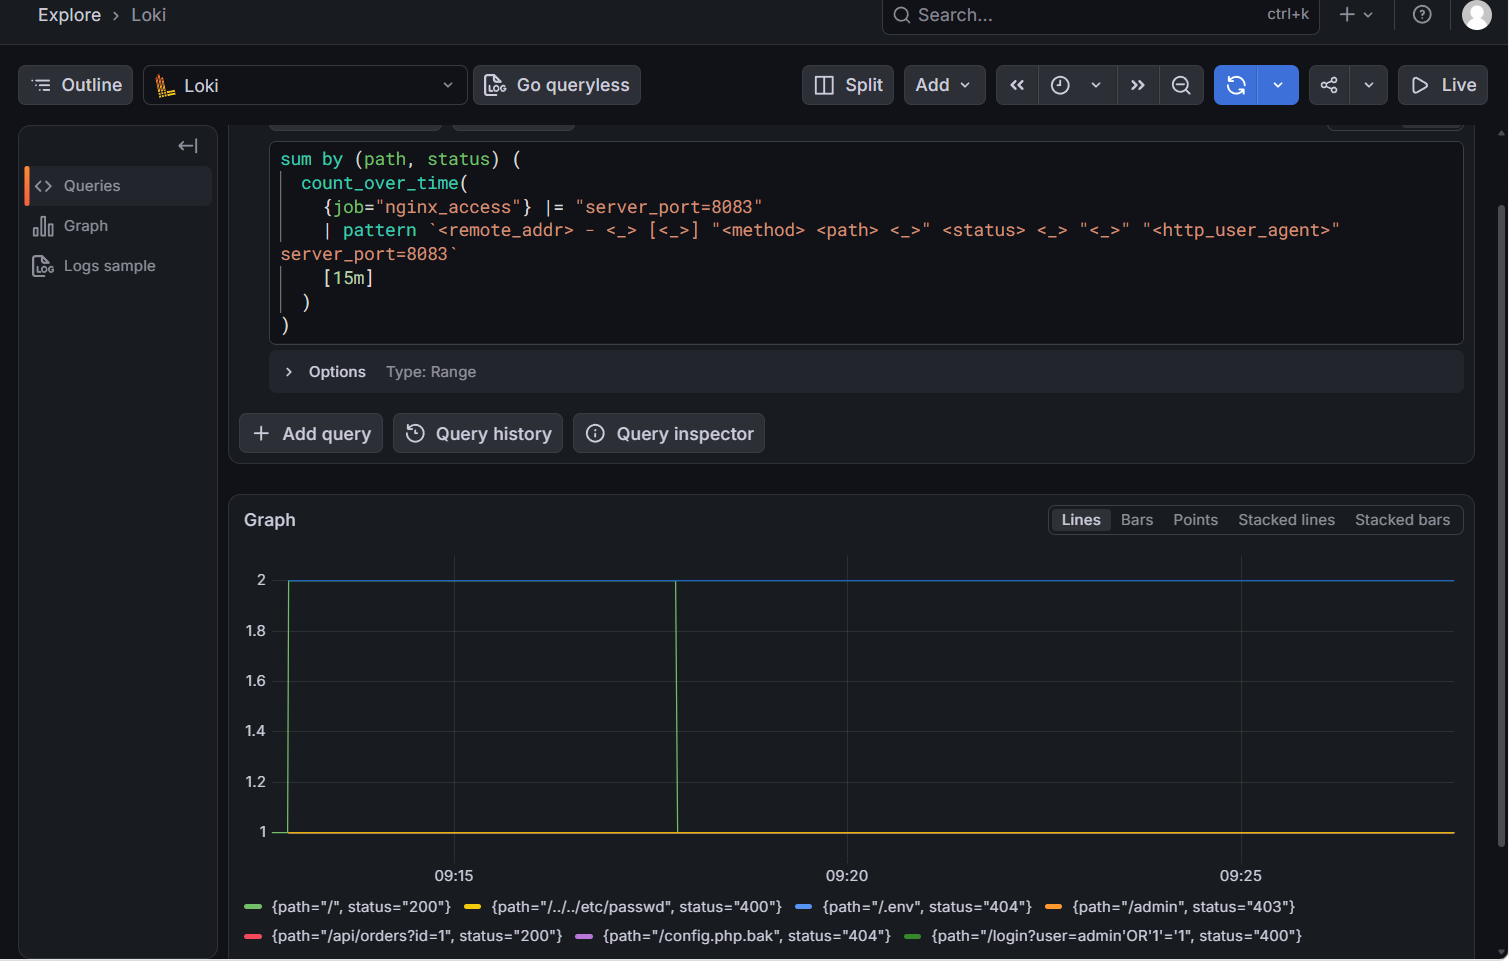
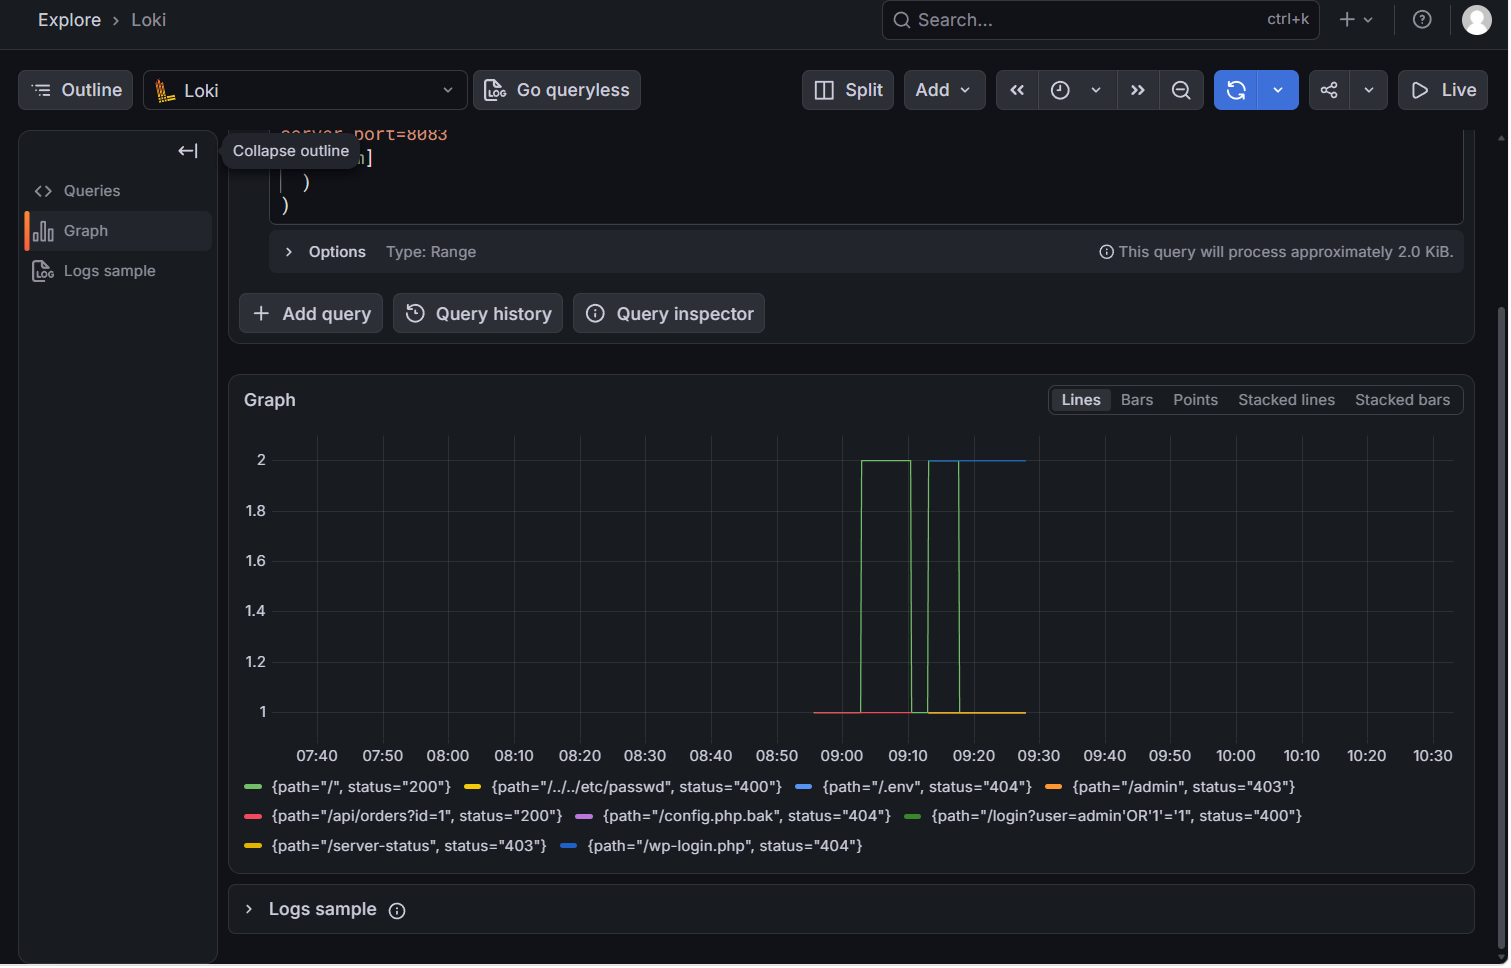
[2024010018田振伟]Lab8作业提交

diff --git a/2024010018田振伟/Lab8/Lab8.md b/2024010018田振伟/Lab8/Lab8.md
@@ -276,7 +276,7 @@ systemctl status alloy --no-pager
 >
 > 1. 8083 站点是否验证通过？`/`、`/admin`、`/.env` 的返回状态码分别是什么？
 >
->    答：8083 站点验证通过；`/` 返回状态码 `200`，`/admin` 返回状态码 `403`，`/.env` 返回状态码 `403`
+>    答：8083 站点验证通过；`/` 返回状态码 `200`，`/admin` 返回状态码 `403`，`/.env` 返回状态码 `404`
 >
 > 2. `{job="nginx_access"} |= "server_port=8083"` 包含哪些正常请求？来源 IP 是什么？若宿主机无法访问，使用哪两条请求作为对照？
 >
@@ -480,7 +480,7 @@ sum by (http_user_agent) (
 >
 > 2. 同一 User-Agent 对应多少条请求？请求了哪些路径？
 >
->    答：`Nikto/2.5.0`：共 5 条；请求路径：`/wp-login.php`、`/server-status`、`/admin`、`/config.php.bak`、`/.env` `sqlmap/1.8`：共 2 条；请求路径：`/login?user=admin'OR'1'='1` `Mozilla/5.0 (Windows NT 10.0; Win64; x64) … Edg/156.0.0.0`：共 1 条；请求路径：`/` `Mozilla/5.0 (X11; Linux x86_64) Firefox/128.0`：共 2 条；请求路径：`/`、`/api/orders?id=1` `Mozilla/5.0`：共 1 条；请求路径：`/wp-login.php` `-`（空 UA）：共 1 条；请求路径：`/../../etc/passwd`
+>    答：`Nikto/2.5.0`：共 5 条；请求路径：`/wp-login.php`、`/server-status`、`/admin`、`/config.php.bak`、`/.env`  `sqlmap/1.8`：共 2 条； 请求路径：`/login?user=admin'OR'1'='1` `Mozilla/5.0 (Windows NT 10.0; Win64; x64) … Edg/156.0.0.0`：共 1 条；请求路径：`/` `Mozilla/5.0 (X11; Linux x86_64) Firefox/128.0`：共 2 条；请求路径：`/`、`/api/orders?id=1` `Mozilla/5.0`：共 1 条；请求路径：`/wp-login.php` `-`（空 UA）：共 1 条；请求路径：`/../../etc/passwd`
 
 ![扫描器 UA](imgs/lab8-scanner.png)
 
